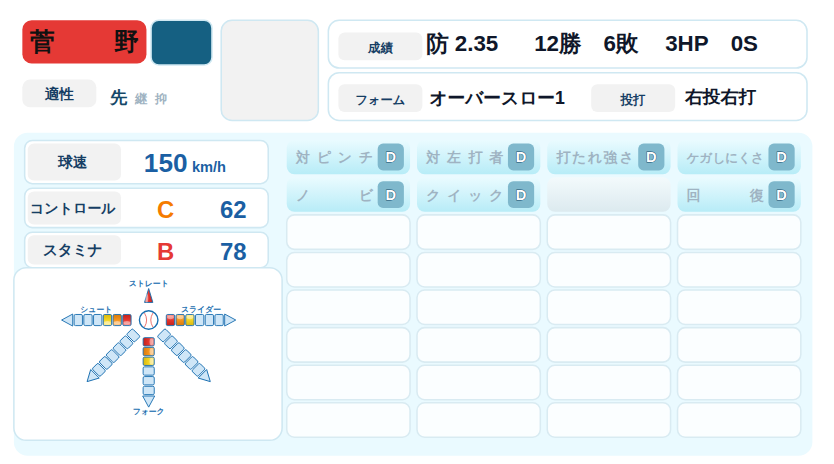
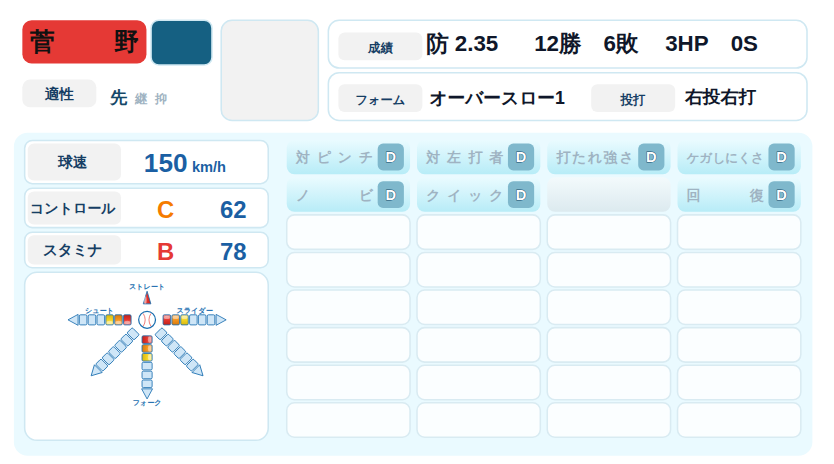
PNG書き出しにWebフォントを埋め込み、投手版の変化球枠を能力値の枠に揃える
PNG書き出し（ダウンロード・共有）はSVGをimg経由でcanvasに描画するため、
ページのWebフォントが効かず、機種によっては文字が代替フォントで
書き出されることがあった。書き出す直前にWebフォントをbase64で
埋め込んだ<style>をSVGへ差し込むことで解消する。

投手版の変化球枠は、球速・コントロール・スタミナの枠より横幅が
広く左にもはみ出していたため、幅・左端を揃え、スタミナの枠との
間に隙間を空けた。

Claude-Session: https://claude.ai/code/session_01SKh1jhAp32CEmbZCaaEmgk

Changed region(s): [[0.0312, 0.5733, 0.3118, 0.9052], [0.0935, 0.7845, 0.1247, 0.8147]]

diff --git a/nouryoku-pitcher/index.html b/nouryoku-pitcher/index.html
@@ -1176,13 +1176,11 @@ function renderCard() {
        ネストしたsvg(viewBox)で縮小表示する。 */
     var gridBottom = L.gridRowY0 + rows * L.gridRowH;
     var lastStatRow = L.statRows[L.statRows.length - 1];
-    /* 変化球の枠は、球速/コントロール/スタミナの列幅に厳密に合わせるより、
-       シュート・スライダーの矢尻がスタミナの文字・数字の下あたりに、
-       フォークの矢尻が特殊能力7行目の下端あたりに来る大きさを優先する。
-       特殊能力バッジ(x=372〜)と被らない範囲で、bodyPanelの左端まで
-       少し広げている。 */
-    var diagramX = L.bodyPanel.x, diagramW = L.gridColX[0] - L.bodyPanel.x - 6;
-    var diagramY = lastStatRow.y + lastStatRow.h;
+    /* 変化球の枠は、球速/コントロール/スタミナの枠と横幅・左右位置を揃える。
+       縦は、スタミナの枠の下端と少し間隔を空けて始め、特殊能力バッジ
+       7行目の下端あたりまで。 */
+    var diagramX = L.statColX, diagramW = statCardW;
+    var diagramY = lastStatRow.y + lastStatRow.h + 6;
     var diagramH = gridBottom - diagramY;
     var bodyBottom = gridBottom + 20;
     var H = bodyBottom + 10;
@@ -1350,30 +1348,69 @@ bindImageUpload("p-flagimg", function (v) { teamFlagImg = v; });
 /* PC向け「ダウンロード」とスマホ・iPad向け「共有して保存」を別ボタンに
    分けた。PCではWeb Share APIが使える場合でも共有シートから画像として
    保存できないことがあるため、ボタンごとに保存方法を固定する。 */
+/* PNGの書き出しは、SVGをいったん<img>として読み込んでcanvasに描画する。
+   このとき読み込まれる画像は、ページの<link>で読み込んだWebフォントとは
+   切り離された描画コンテキストとして扱われることがあり（特にiOS Safariの
+   共有シート経由）、カード内の文字が意図したフォントではなくシステムの
+   代替フォントで描かれてしまうことがある。これを避けるため、書き出す
+   直前にWebフォントをbase64で埋め込んだ<style>をSVGへ差し込む。
+   フォントデータは初回のみ取得してキャッシュする。 */
+var FONT_CSS_URL = "https://fonts.googleapis.com/css2?family=ADLaM+Display&family=Source+Sans+3:wght@700;900&family=M+PLUS+Rounded+1c:wght@700;800;900&display=swap";
+var embeddedFontCssPromise = null;
+function getEmbeddedFontCss() {
+    if (embeddedFontCssPromise) return embeddedFontCssPromise;
+    embeddedFontCssPromise = fetch(FONT_CSS_URL).then(function (r) { return r.text(); }).then(function (cssText) {
+        var urls = [], re = /url\((https:\/\/fonts\.gstatic\.com\/[^)]+)\)/g, m;
+        while ((m = re.exec(cssText))) urls.push(m[1]);
+        return Promise.all(urls.map(function (u) {
+            return fetch(u).then(function (r) { return r.blob(); }).then(function (blob) {
+                return new Promise(function (resolve) {
+                    var reader = new FileReader();
+                    reader.onload = function () { resolve({ url: u, dataUrl: reader.result }); };
+                    reader.readAsDataURL(blob);
+                });
+            });
+        })).then(function (results) {
+            var css = cssText;
+            results.forEach(function (r) { css = css.split(r.url).join(r.dataUrl); });
+            return css;
+        });
+    }).catch(function () { return ""; });
+    return embeddedFontCssPromise;
+}
+
 function exportPngBlob(cb) {
     var svgEl = document.querySelector("#cardPreview svg");
     var vb = svgEl.getAttribute("viewBox").split(" ").map(Number);
     var scale = 2;
     var w = vb[2] * scale, h = vb[3] * scale;
 
-    var serializer = new XMLSerializer();
-    var svgStr = serializer.serializeToString(svgEl);
-    var svgBlob = new Blob([svgStr], { type: "image/svg+xml;charset=utf-8" });
-    var url = URL.createObjectURL(svgBlob);
+    getEmbeddedFontCss().then(function (fontCss) {
+        var svgClone = svgEl.cloneNode(true);
+        if (fontCss) {
+            var styleEl = document.createElementNS("http://www.w3.org/2000/svg", "style");
+            styleEl.textContent = fontCss;
+            svgClone.insertBefore(styleEl, svgClone.firstChild);
+        }
+        var serializer = new XMLSerializer();
+        var svgStr = serializer.serializeToString(svgClone);
+        var svgBlob = new Blob([svgStr], { type: "image/svg+xml;charset=utf-8" });
+        var url = URL.createObjectURL(svgBlob);
 
-    var img = new Image();
-    img.onload = function () {
-        var canvas = document.createElement("canvas");
-        canvas.width = w; canvas.height = h;
-        var ctx = canvas.getContext("2d");
-        ctx.drawImage(img, 0, 0, w, h);
-        URL.revokeObjectURL(url);
-        canvas.toBlob(function (blob) {
-            var filename = (document.getElementById("p-name").value || "player") + "_card.png";
-            cb(blob, filename);
-        }, "image/png");
-    };
-    img.src = url;
+        var img = new Image();
+        img.onload = function () {
+            var canvas = document.createElement("canvas");
+            canvas.width = w; canvas.height = h;
+            var ctx = canvas.getContext("2d");
+            ctx.drawImage(img, 0, 0, w, h);
+            URL.revokeObjectURL(url);
+            canvas.toBlob(function (blob) {
+                var filename = (document.getElementById("p-name").value || "player") + "_card.png";
+                cb(blob, filename);
+            }, "image/png");
+        };
+        img.src = url;
+    });
 }
 
 document.getElementById("btnDownload").addEventListener("click", function () {

diff --git a/nouryoku/index.html b/nouryoku/index.html
@@ -955,30 +955,69 @@ bindImageUpload("p-flagimg", function (v) { teamFlagImg = v; });
    PC向け「ダウンロード」とスマホ・iPad向け「共有して保存」を別ボタンに
    分けた。PCではWeb Share APIが使える場合でも共有シートから画像として
    保存できないことがあるため、ボタンごとに保存方法を固定する。 */
+/* PNGの書き出しは、SVGをいったん<img>として読み込んでcanvasに描画する。
+   このとき読み込まれる画像は、ページの<link>で読み込んだWebフォントとは
+   切り離された描画コンテキストとして扱われることがあり（特にiOS Safariの
+   共有シート経由）、カード内の文字が意図したフォントではなくシステムの
+   代替フォントで描かれてしまうことがある。これを避けるため、書き出す
+   直前にWebフォントをbase64で埋め込んだ<style>をSVGへ差し込む。
+   フォントデータは初回のみ取得してキャッシュする。 */
+var FONT_CSS_URL = "https://fonts.googleapis.com/css2?family=ADLaM+Display&family=Source+Sans+3:wght@700;900&family=M+PLUS+Rounded+1c:wght@700;800;900&display=swap";
+var embeddedFontCssPromise = null;
+function getEmbeddedFontCss() {
+    if (embeddedFontCssPromise) return embeddedFontCssPromise;
+    embeddedFontCssPromise = fetch(FONT_CSS_URL).then(function (r) { return r.text(); }).then(function (cssText) {
+        var urls = [], re = /url\((https:\/\/fonts\.gstatic\.com\/[^)]+)\)/g, m;
+        while ((m = re.exec(cssText))) urls.push(m[1]);
+        return Promise.all(urls.map(function (u) {
+            return fetch(u).then(function (r) { return r.blob(); }).then(function (blob) {
+                return new Promise(function (resolve) {
+                    var reader = new FileReader();
+                    reader.onload = function () { resolve({ url: u, dataUrl: reader.result }); };
+                    reader.readAsDataURL(blob);
+                });
+            });
+        })).then(function (results) {
+            var css = cssText;
+            results.forEach(function (r) { css = css.split(r.url).join(r.dataUrl); });
+            return css;
+        });
+    }).catch(function () { return ""; });
+    return embeddedFontCssPromise;
+}
+
 function exportPngBlob(cb) {
     var svgEl = document.querySelector("#cardPreview svg");
     var vb = svgEl.getAttribute("viewBox").split(" ").map(Number);
     var scale = 2;
     var w = vb[2] * scale, h = vb[3] * scale;
 
-    var serializer = new XMLSerializer();
-    var svgStr = serializer.serializeToString(svgEl);
-    var svgBlob = new Blob([svgStr], { type: "image/svg+xml;charset=utf-8" });
-    var url = URL.createObjectURL(svgBlob);
+    getEmbeddedFontCss().then(function (fontCss) {
+        var svgClone = svgEl.cloneNode(true);
+        if (fontCss) {
+            var styleEl = document.createElementNS("http://www.w3.org/2000/svg", "style");
+            styleEl.textContent = fontCss;
+            svgClone.insertBefore(styleEl, svgClone.firstChild);
+        }
+        var serializer = new XMLSerializer();
+        var svgStr = serializer.serializeToString(svgClone);
+        var svgBlob = new Blob([svgStr], { type: "image/svg+xml;charset=utf-8" });
+        var url = URL.createObjectURL(svgBlob);
 
-    var img = new Image();
-    img.onload = function () {
-        var canvas = document.createElement("canvas");
-        canvas.width = w; canvas.height = h;
-        var ctx = canvas.getContext("2d");
-        ctx.drawImage(img, 0, 0, w, h);
-        URL.revokeObjectURL(url);
-        canvas.toBlob(function (blob) {
-            var filename = (document.getElementById("p-name").value || "player") + "_card.png";
-            cb(blob, filename);
-        }, "image/png");
-    };
-    img.src = url;
+        var img = new Image();
+        img.onload = function () {
+            var canvas = document.createElement("canvas");
+            canvas.width = w; canvas.height = h;
+            var ctx = canvas.getContext("2d");
+            ctx.drawImage(img, 0, 0, w, h);
+            URL.revokeObjectURL(url);
+            canvas.toBlob(function (blob) {
+                var filename = (document.getElementById("p-name").value || "player") + "_card.png";
+                cb(blob, filename);
+            }, "image/png");
+        };
+        img.src = url;
+    });
 }
 
 document.getElementById("btnDownload").addEventListener("click", function () {
